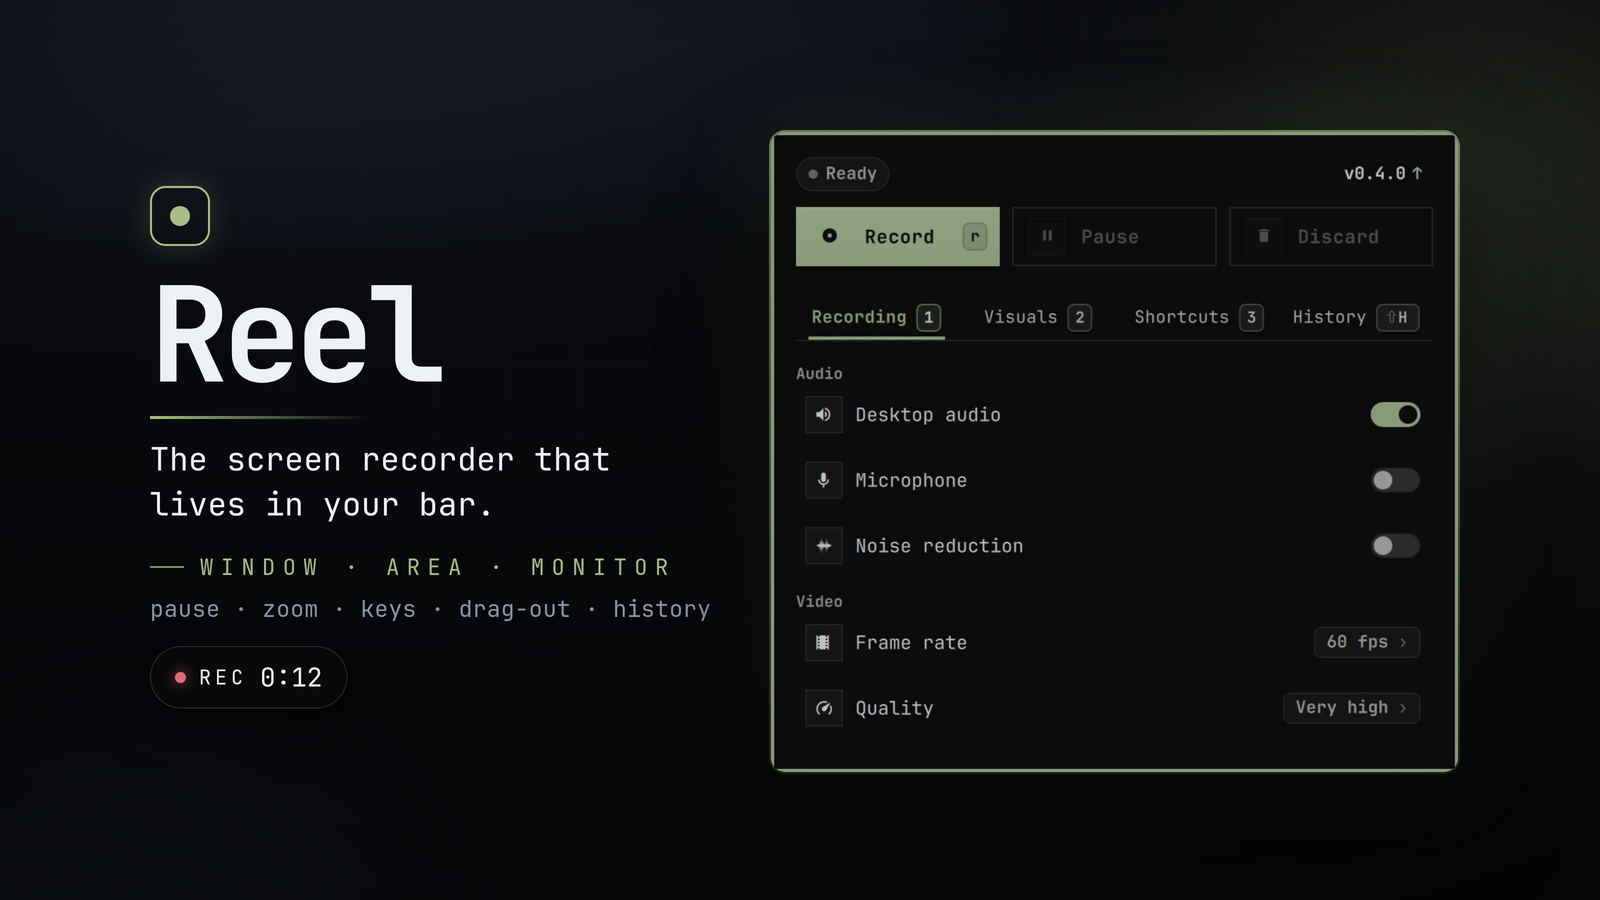
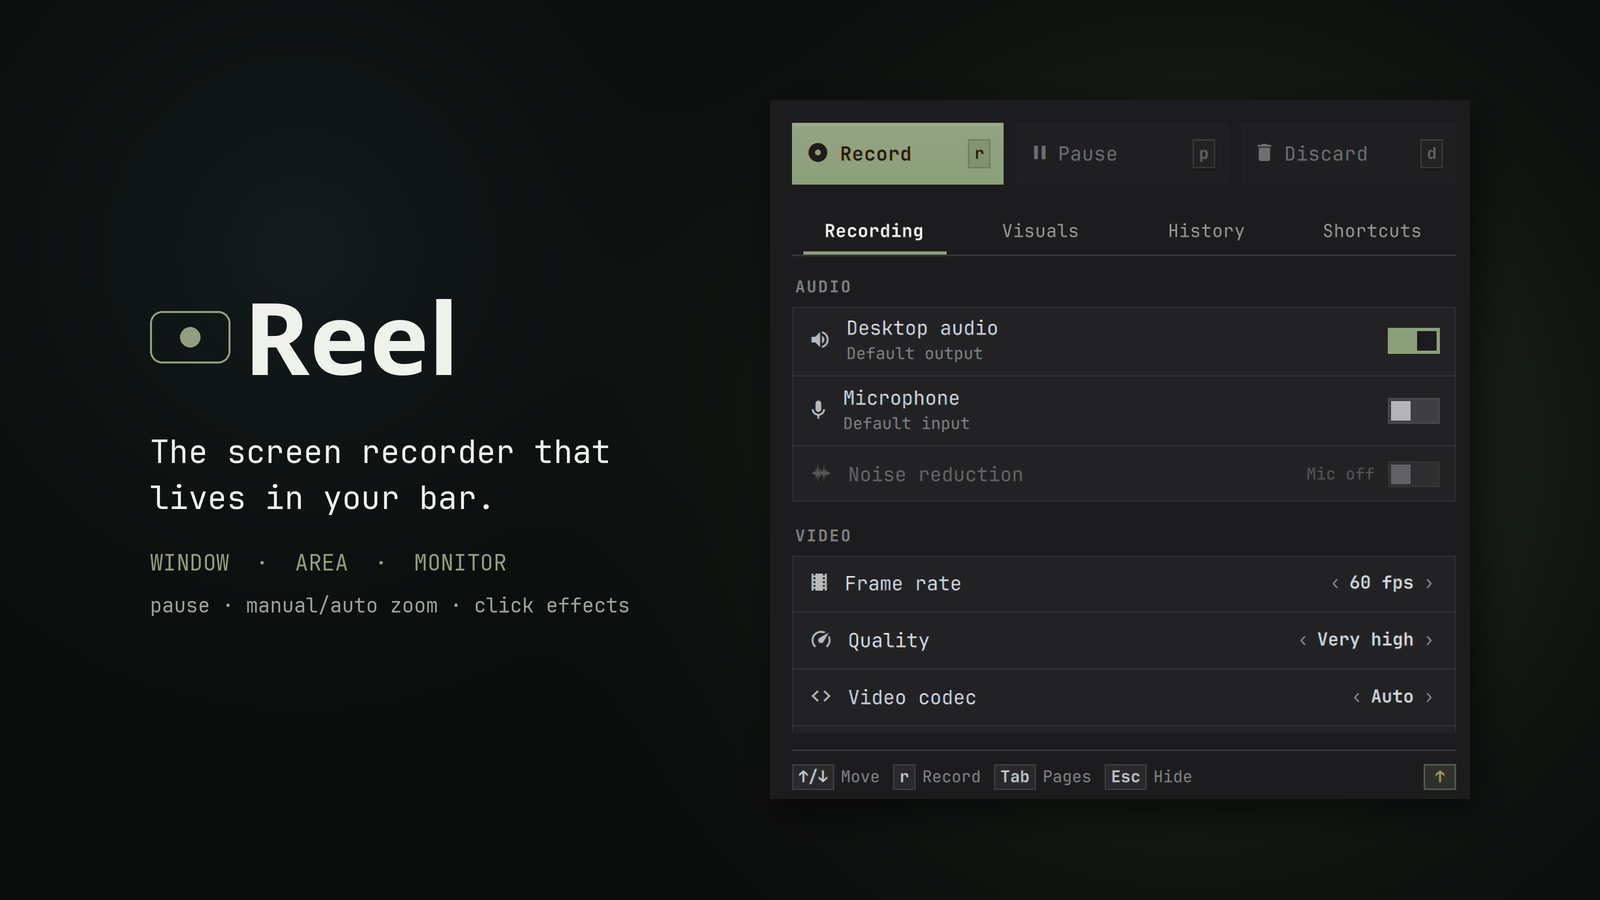
docs(preview): refresh the marketplace preview for 0.5.1
The preview still showed the retired 0.4.0 panel, a release badge, a REC pill, and an underline that did not span the wordmark. Rebuild it from a real 0.5.1 panel capture with a tighter icon lockup, a short bar-style mark centred on Reel, and copy that calls out manual/auto zoom and click effects. Show the image at the top of the README.

Rendered a 3200x1800 master and downsampled to 1600x900 with Lanczos. Verified the PNG dimensions with identify, then ran omarchy plugin validate ., tests/install.test.sh, and bin/check-release.

diff --git a/README.md b/README.md
@@ -9,6 +9,8 @@ fallback when the GPU recorder is missing or cannot capture the machine, and
 keeps its state separate from Omarchy's stock recorder, so both can be used
 without stepping on each other.
 
+![Reel panel](preview.png)
+
 ## Features
 
 - Pick a window, monitor, or region with Omarchy's picker; recording starts
